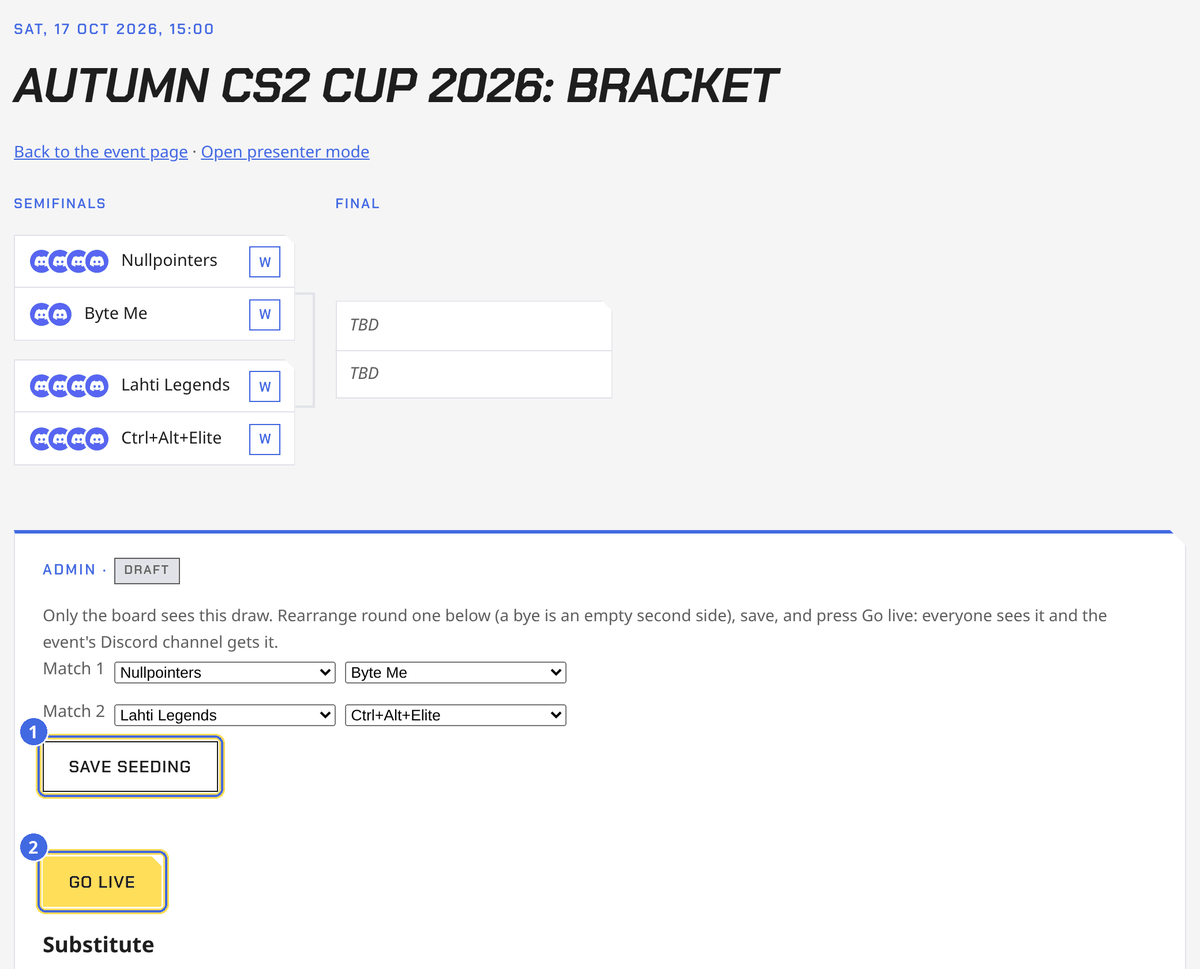
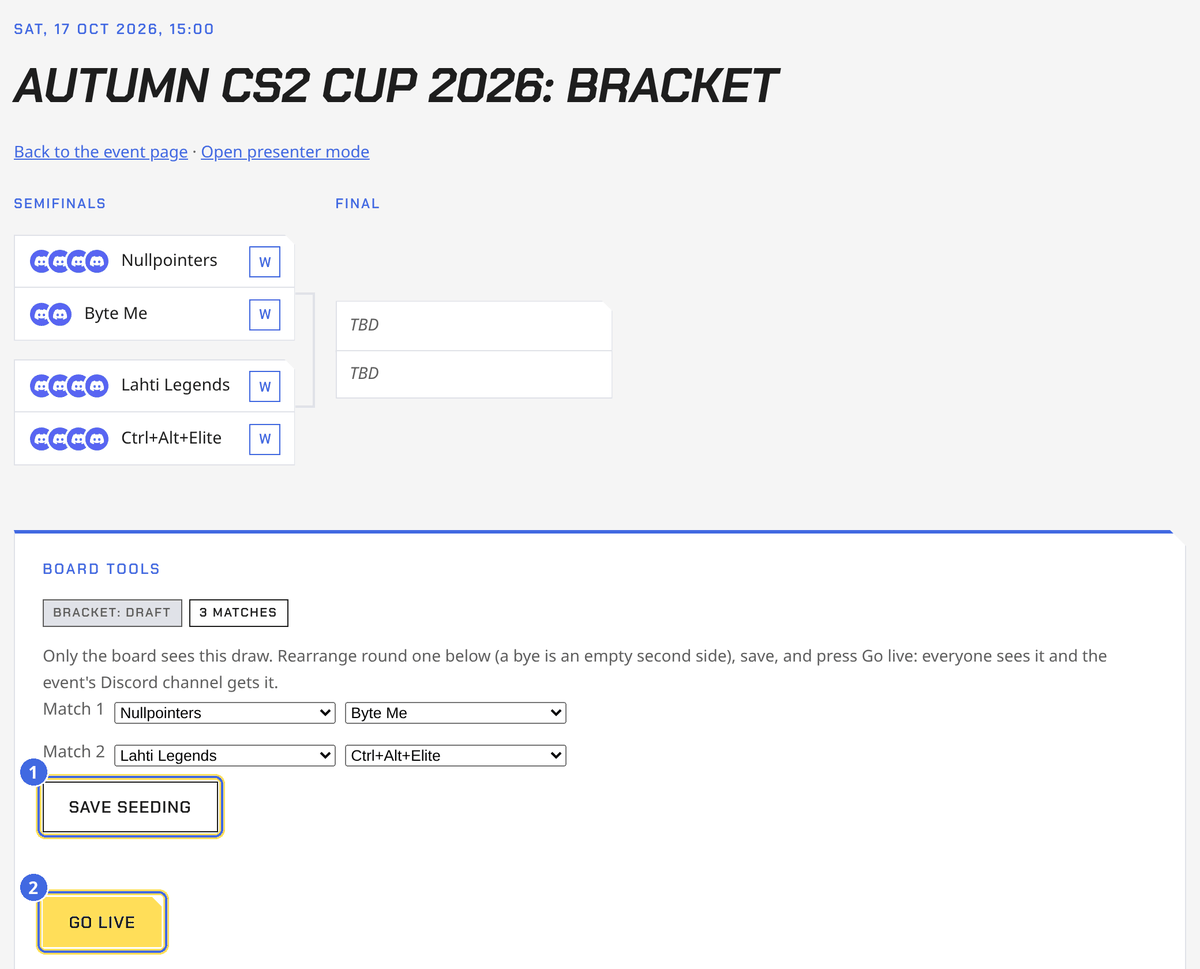
Every board panel reads the same way
The events, shop, news and bracket pages had their own idea of what board
tools look like: a wall of form fields on one, a bare list on another, a
heading called "Admin" on a third. They now follow the event page — pills
saying where things stand, the day's buttons, then folded rows that each
say what they hold and what is inside.

Events: 4 upcoming · 1 draft · 3 recent, the door pages, and the
fifteen-field Create an event folded away until it is wanted. Shop:
3 products · 2 on sale · 2 to hand over, the two payment links, then
Products (open) and New product (folded, and open while editing one).
News: 2 posted · 1 scheduled, and Write a post, with each post's own
"Edit this post" row in the same clothes. The bracket's "Admin" heading
is "Board tools" with the draft-or-live pill beside the match count.

Handbook pictures retaken; the shot list points at #product-form rather
than the words in a summary.

Claude-Session: https://claude.ai/code/session_019m4NkzFyEy3cwdh3cuTmAt

Changed region(s): [[0.0, 0.5573, 0.925, 0.9907]]

diff --git a/scripts/handbook/plan.py b/scripts/handbook/plan.py
@@ -68,7 +68,7 @@ shot('presenter', '/events/4/bracket?display', viewportOnly=True, pad=0, width=1
 # Tickets, shop, door
 shot('shop-tiles', '/shop', clip='section.list', pad=8, hl=['text=Tickets and details'])
 shot('shop-board-tools', '/shop', 'admin', open=['details.admin-panel'], clip='details.admin-panel', top=560, hl=['text=Items to hand over', 'text=Card payment on the spot', 'text=Edit', 'text=Replace picture'], nums=True)
-shot('shop-new-product', '/shop', 'admin', open=['details.admin-panel'], clip='text=New product', skip=-10, extend=470, hl=['text=Add product'])
+shot('shop-new-product', '/shop', 'admin', open=['details.admin-panel', '#product-form'], clip='#product-form', top=520, hl=['text=Add product'])
 shot('orders', '/shop/orders', 'admin', clip='h1', skip=-20, extend=580, hl=['text=Attach', 'text=Handed over'], nums=True)
 shot('door-scan', '/events/1/door', 'admin', device='mobile', clip='h1', skip=-30, extend=360, hl=['#door-form input', 'text=Scan with camera'], nums=True)
 shot('door-sell', '/events/1/door', 'admin', device='mobile', clip='section.door-sell', top=372)
@@ -78,7 +78,7 @@ shot('ticket-page', f'/tickets/{BEN}', 'ben', device='mobile', clip='h1', skip=-
 shot('purchase-page', '/purchase/PSHOPAB12C', 'sara', device='mobile', clip='h1', skip=-20, extend=720, hl=['text=Mark as collected'])
 # News
 shot('news-board-tools', '/announcements', 'admin', open=['details.admin-panel'], clip='details.admin-panel', hl=['details.admin-panel input[type=file]', 'details.admin-panel select', 'details.admin-panel input[type=date]'], nums=True)
-shot('news-draft', '/announcements', 'admin', clip={'sel': 'article.news-card', 'i': 0}, hl=['text=Publish', {'text': 'Edit this post', 'i': 0}], pad=0, nums=True)
+shot('news-draft', '/announcements', 'admin', clip={'sel': 'article.news-card', 'i': 0}, hl=['text=Publish', {'sel': '.news-edit summary', 'i': 0}], pad=0, nums=True)
 shot('news-edit-draft', '/announcements', 'admin', open=['details.news-edit'], clip={'sel': 'details.news-edit', 'i': 0}, hl=['details.news-edit select', {'sel': 'details.news-edit input[type=date]', 'i': 0}], nums=True)
 shot('news-published-cover', '/announcements', 'admin', clip={'sel': 'article.news-card', 'i': 2}, top=700, hl=['text=Remove cover'], pad=0)
 # Minecraft, history

diff --git a/docs/BOARD-GUIDE.md b/docs/BOARD-GUIDE.md
@@ -140,7 +140,7 @@ the bottom right lets you view a page as a member or a visitor would.
 
 ![Board tools on the events page](images/site/events-board-tools.png)
 
-*Board tools on the events page: 1 the door page of each event coming up, 2 Member check, 3 items and card payments, 4 the Create an event form below.*
+*Board tools on the events page: how many events are upcoming and how many are drafts, 1 the door page of each event coming up, 2 Member check, 3 items and card payments, and 4 Create an event, folded until you need it.*
 
 ![A draft event](images/site/event-draft-page.png)
 
@@ -300,7 +300,7 @@ the bottom right lets you view a page as a member or a visitor would.
 
 ![Board tools on the shop page](images/site/shop-board-tools.png)
 
-*Board tools on the shop page: 1 Items to hand over, 2 the card payments taken on the spot, and per product 3 Edit and Delete, 4 the picture.*
+*Board tools on the shop page: how many products, how many on sale and how many items wait to be handed over, 1 Items to hand over, 2 the card payments taken on the spot, and per product 3 Edit and Delete, 4 the picture.*
 
 | | |
 |---|---|
@@ -378,7 +378,7 @@ post, **Post to Discord** under the post sends it again.
 
 ![Writing a post](images/site/news-board-tools.png)
 
-*Board tools on the news page: the post form with 1 the cover picture, 2 who to ping on Discord, 3 the publish date and time.*
+*Board tools on the news page: how many posts, drafts and scheduled ones, then Write a post with 1 the cover picture, 2 who to ping on Discord, 3 the publish date and time.*
 
 - **Scheduled news.** Save a news post with a publish date and time and
   it goes out by itself, to the site and Discord. Handy for general

diff --git a/docs/OPERATIONS.md b/docs/OPERATIONS.md
@@ -123,7 +123,7 @@ regenerate bracket) ask "are you sure" first.
 
 ![Board tools on an event page](images/site/event-board-tools.png)
 
-*Board tools on an event page: 1 the status pills, 2 the door page, 3 the folded sections — each says what it holds now and what is inside (Edit, Discord, Tickets, Questions, Participants, Photos), with the danger zone kept apart in red.*
+*Board tools on an event page: 1 the status pills, 2 the door page, 3 the folded sections — each says what it holds now and what is inside (Edit, Discord, Tickets, Questions, Participants, Photos), with the danger zone kept apart in red. Every board panel on the site is built this way: pills for where things stand, the day's buttons, then folded rows.*
 
 The Admin panel's **Participants** section edits the roster directly,
 skipping the normal signup rules (closed signups, capacity): change anyone's
